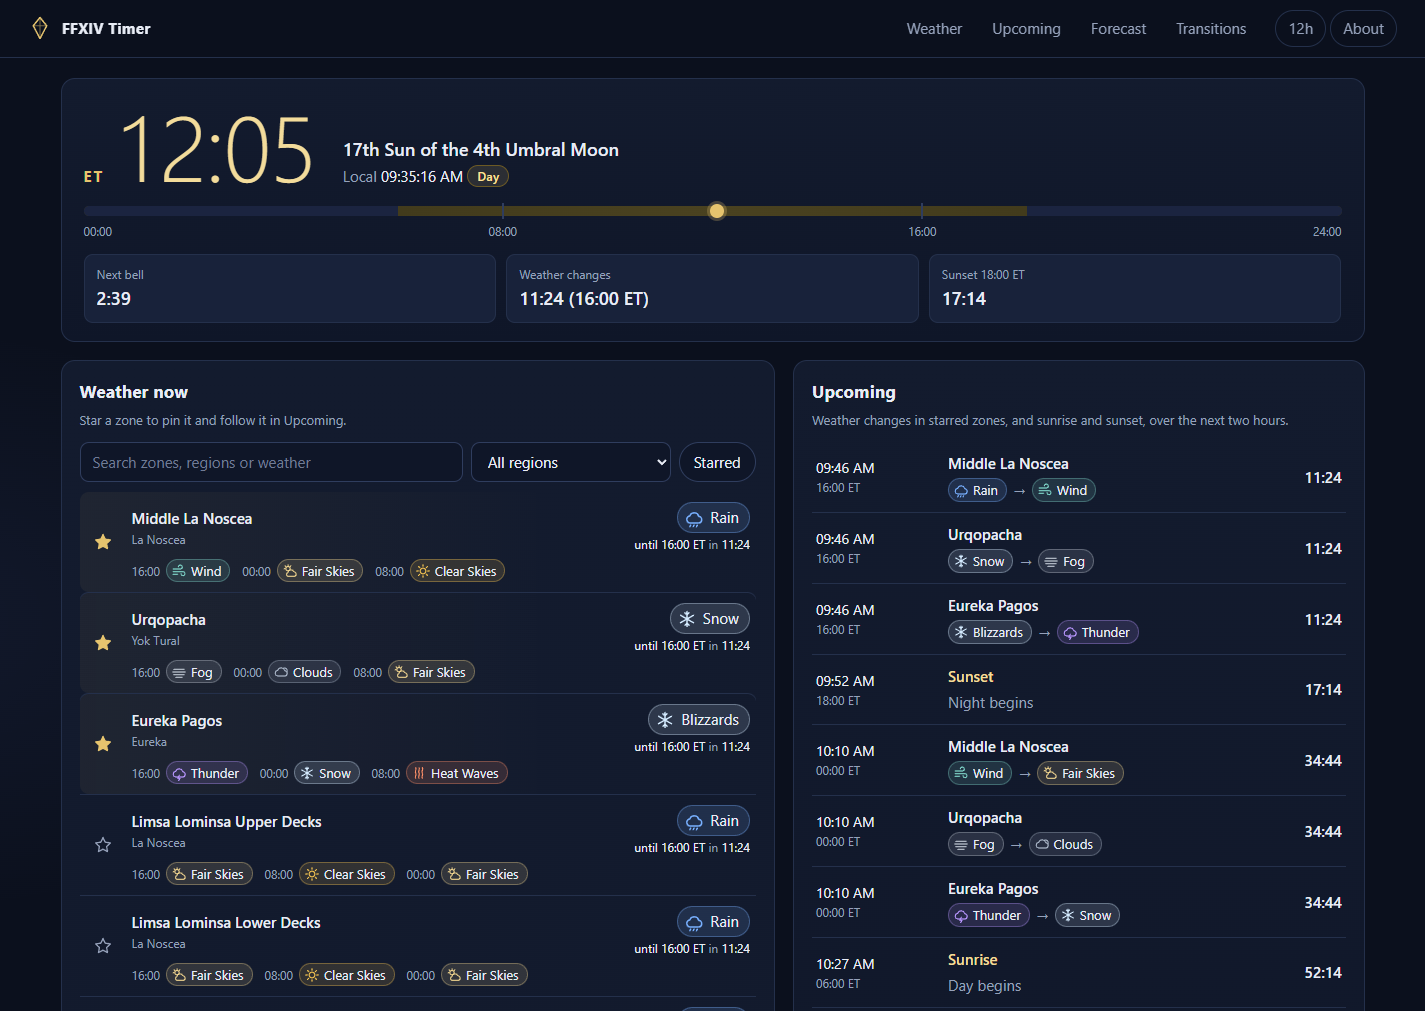
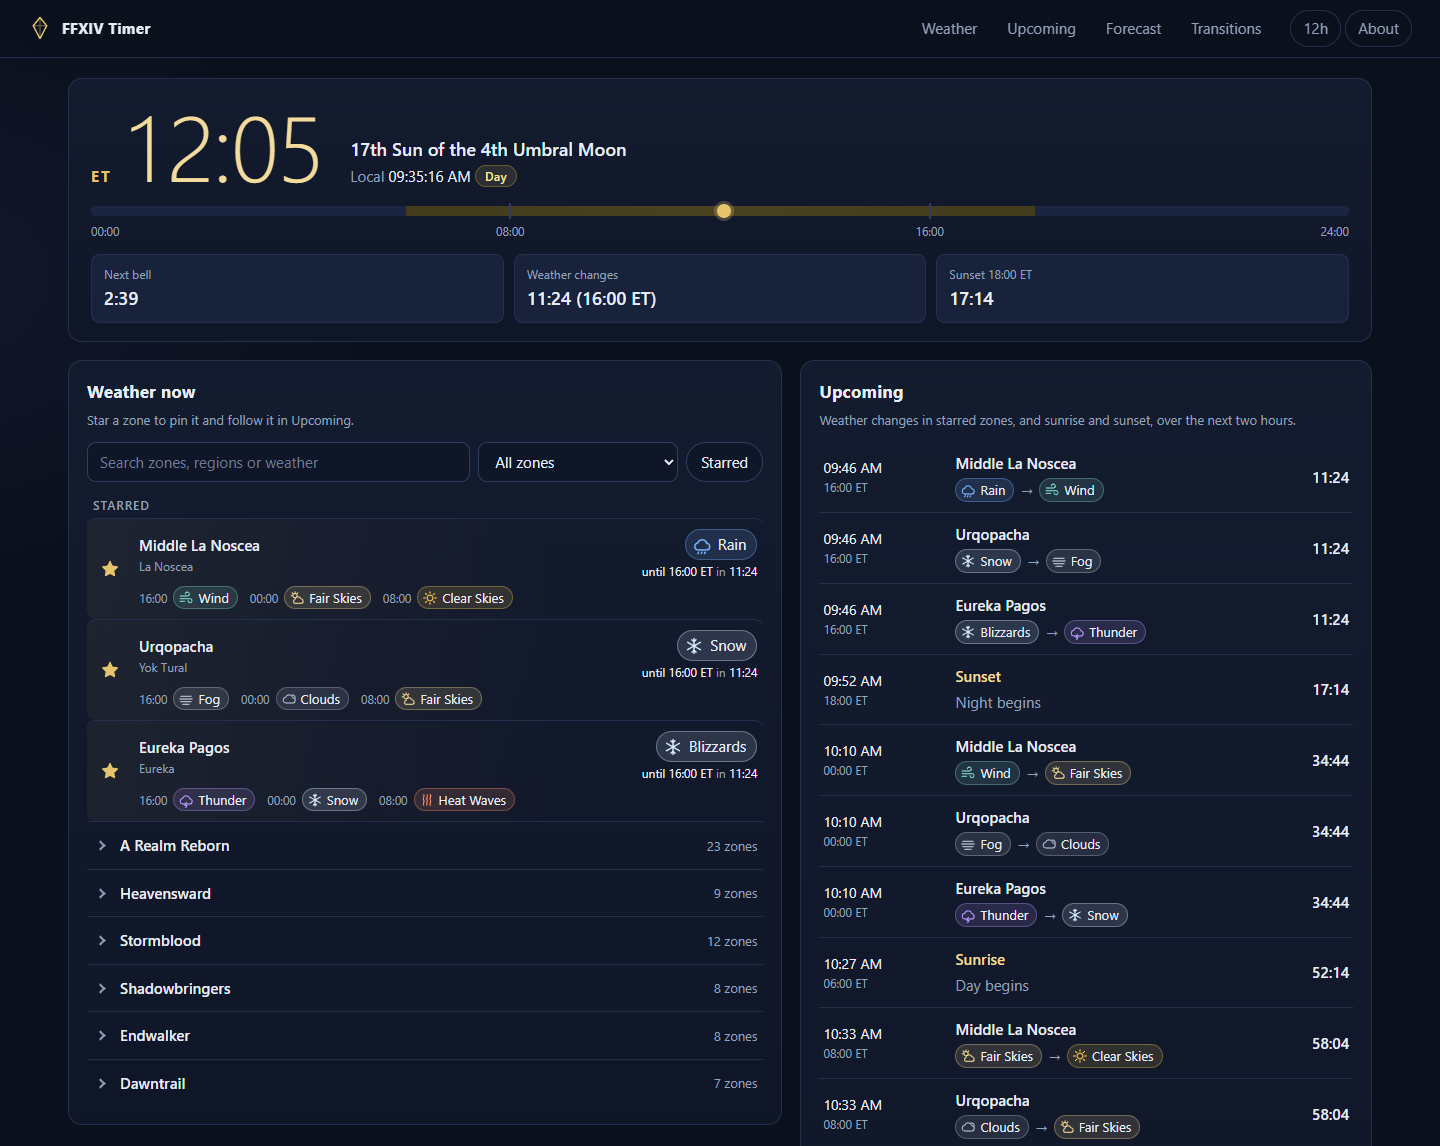
Weather for Stormblood through Endwalker; group zones by expansion
- 25 more zones (70 in all): every city and field zone from A Realm Reborn through Dawntrail,
  plus Eureka. Every table matches XIVAPI; the reference implementation agrees on every zone it
  knows (one weather has since been renamed in the game text).
- Weather now: starred zones first, the rest in one collapsible group per expansion that stays
  open or closed. The area filter, zone pickers and About list are grouped by expansion, in the
  game's own release order.
- About notes that story versions of a zone can have their own weather.
- A unit test that every page script parses; a browser test for the groups and area filter.
- Screenshot retaken at full width.

diff --git a/js/weather-data.js b/js/weather-data.js
@@ -6,7 +6,8 @@
   'use strict';
   const data = {
     source: {"dataset":"xivapi/ffxiv-datamining","commit":"44948e4cda5846eab0baa9872122a888fcc4f1b1","patch":"7.57h1","language":"en"},
-    weathers: {"1":"Clear Skies","2":"Fair Skies","3":"Clouds","4":"Fog","5":"Wind","6":"Gales","7":"Rain","8":"Showers","9":"Thunder","10":"Thunderstorms","11":"Dust Storms","14":"Heat Waves","15":"Snow","16":"Blizzards","17":"Gloom","49":"Umbral Wind","50":"Umbral Static"},
+    expansions: ["A Realm Reborn","Heavensward","Stormblood","Shadowbringers","Endwalker","Dawntrail"],
+    weathers: {"1":"Clear Skies","2":"Fair Skies","3":"Clouds","4":"Fog","5":"Wind","6":"Gales","7":"Rain","8":"Showers","9":"Thunder","10":"Thunderstorms","11":"Dust Storms","14":"Heat Waves","15":"Snow","16":"Blizzards","17":"Gloom","49":"Umbral Wind","50":"Umbral Static","148":"Moon Dust","149":"Astromagnetic Storms"},
     zones: [
       {"key":"limsa-lominsa-upper-decks","name":"Limsa Lominsa Upper Decks","territory":128,"region":"La Noscea","expansion":"A Realm Reborn","weatherRate":14,"rates":[[3,20],[1,30],[2,30],[4,10],[7,10]]},
       {"key":"limsa-lominsa-lower-decks","name":"Limsa Lominsa Lower Decks","territory":129,"region":"La Noscea","expansion":"A Realm Reborn","weatherRate":15,"rates":[[3,20],[1,30],[2,30],[4,10],[7,10]]},
@@ -41,6 +42,31 @@
       {"key":"foundation","name":"Foundation","territory":418,"region":"Coerthas","expansion":"Heavensward","weatherRate":47,"rates":[[15,60],[2,10],[1,5],[3,15],[4,10]]},
       {"key":"the-pillars","name":"The Pillars","territory":419,"region":"Coerthas","expansion":"Heavensward","weatherRate":48,"rates":[[15,60],[2,10],[1,5],[3,15],[4,10]]},
       {"key":"idyllshire","name":"Idyllshire","territory":478,"region":"Dravania","expansion":"Heavensward","weatherRate":55,"rates":[[3,10],[4,10],[7,10],[8,10],[1,30],[2,30]]},
+      {"key":"kugane","name":"Kugane","territory":628,"region":"Hingashi","expansion":"Stormblood","weatherRate":82,"rates":[[7,10],[4,10],[3,20],[2,40],[1,20]]},
+      {"key":"rhalgrs-reach","name":"Rhalgr's Reach","territory":635,"region":"Gyr Abania","expansion":"Stormblood","weatherRate":78,"rates":[[1,15],[2,45],[3,20],[4,10],[9,10]]},
+      {"key":"the-doman-enclave","name":"The Doman Enclave","territory":759,"region":"Othard","expansion":"Stormblood","weatherRate":84,"rates":[[8,5],[7,10],[4,10],[3,15],[2,40],[1,20]]},
+      {"key":"the-fringes","name":"The Fringes","territory":612,"region":"Gyr Abania","expansion":"Stormblood","weatherRate":79,"rates":[[1,15],[2,45],[3,20],[4,10],[9,10]]},
+      {"key":"the-peaks","name":"The Peaks","territory":620,"region":"Gyr Abania","expansion":"Stormblood","weatherRate":80,"rates":[[1,10],[2,50],[3,15],[4,10],[5,10],[11,5]]},
+      {"key":"the-lochs","name":"The Lochs","territory":621,"region":"Gyr Abania","expansion":"Stormblood","weatherRate":81,"rates":[[1,20],[2,40],[3,20],[4,10],[10,10]]},
+      {"key":"the-ruby-sea","name":"The Ruby Sea","territory":613,"region":"Othard","expansion":"Stormblood","weatherRate":83,"rates":[[9,10],[5,10],[3,15],[2,40],[1,25]]},
+      {"key":"yanxia","name":"Yanxia","territory":614,"region":"Othard","expansion":"Stormblood","weatherRate":84,"rates":[[8,5],[7,10],[4,10],[3,15],[2,40],[1,20]]},
+      {"key":"the-azim-steppe","name":"The Azim Steppe","territory":622,"region":"Othard","expansion":"Stormblood","weatherRate":85,"rates":[[6,5],[5,5],[7,7],[4,8],[3,10],[2,40],[1,25]]},
+      {"key":"the-crystarium","name":"The Crystarium","territory":819,"region":"Norvrandt","expansion":"Shadowbringers","weatherRate":112,"rates":[[1,20],[2,40],[3,15],[4,10],[7,10],[10,5]]},
+      {"key":"eulmore","name":"Eulmore","territory":820,"region":"Norvrandt","expansion":"Shadowbringers","weatherRate":113,"rates":[[6,10],[7,10],[4,10],[3,15],[2,40],[1,15]]},
+      {"key":"lakeland","name":"Lakeland","territory":813,"region":"Norvrandt","expansion":"Shadowbringers","weatherRate":106,"rates":[[1,20],[2,40],[3,15],[4,10],[7,10],[10,5]]},
+      {"key":"kholusia","name":"Kholusia","territory":814,"region":"Norvrandt","expansion":"Shadowbringers","weatherRate":107,"rates":[[6,10],[7,10],[4,10],[3,15],[2,40],[1,15]]},
+      {"key":"amh-araeng","name":"Amh Araeng","territory":815,"region":"Norvrandt","expansion":"Shadowbringers","weatherRate":108,"rates":[[2,45],[3,15],[11,10],[14,10],[1,20]]},
+      {"key":"il-mheg","name":"Il Mheg","territory":816,"region":"Norvrandt","expansion":"Shadowbringers","weatherRate":109,"rates":[[7,10],[4,10],[3,15],[10,10],[1,15],[2,40]]},
+      {"key":"the-raktika-greatwood","name":"The Rak'tika Greatwood","territory":817,"region":"Norvrandt","expansion":"Shadowbringers","weatherRate":110,"rates":[[4,10],[7,10],[49,10],[1,15],[2,40],[3,15]]},
+      {"key":"the-tempest","name":"The Tempest","territory":818,"region":"Norvrandt","expansion":"Shadowbringers","weatherRate":111,"rates":[[3,20],[2,60],[1,20]]},
+      {"key":"old-sharlayan","name":"Old Sharlayan","territory":962,"region":"The Northern Empty","expansion":"Endwalker","weatherRate":137,"rates":[[1,10],[2,40],[3,20],[4,15],[15,15]]},
+      {"key":"radz-at-han","name":"Radz-at-Han","territory":963,"region":"Ilsabard","expansion":"Endwalker","weatherRate":138,"rates":[[4,10],[7,15],[1,15],[2,40],[3,20]]},
+      {"key":"labyrinthos","name":"Labyrinthos","territory":956,"region":"The Northern Empty","expansion":"Endwalker","weatherRate":131,"rates":[[1,15],[2,45],[3,25],[7,15]]},
+      {"key":"thavnair","name":"Thavnair","territory":957,"region":"Ilsabard","expansion":"Endwalker","weatherRate":132,"rates":[[4,10],[7,10],[8,5],[1,15],[2,40],[3,20]]},
+      {"key":"garlemald","name":"Garlemald","territory":958,"region":"Ilsabard","expansion":"Endwalker","weatherRate":133,"rates":[[15,45],[9,5],[7,5],[4,5],[3,25],[2,10],[1,5]]},
+      {"key":"mare-lamentorum","name":"Mare Lamentorum","territory":959,"region":"The Sea of Stars","expansion":"Endwalker","weatherRate":135,"rates":[[49,15],[148,15],[2,70]]},
+      {"key":"ultima-thule","name":"Ultima Thule","territory":960,"region":"The Sea of Stars","expansion":"Endwalker","weatherRate":136,"rates":[[149,15],[2,70],[49,15]]},
+      {"key":"elpis","name":"Elpis","territory":961,"region":"The World Unsundered","expansion":"Endwalker","weatherRate":134,"rates":[[3,25],[49,15],[2,45],[1,15]]},
       {"key":"tuliyollal","name":"Tuliyollal","territory":1185,"region":"Yok Tural","expansion":"Dawntrail","weatherRate":159,"rates":[[1,40],[2,40],[3,5],[4,10],[7,5]]},
       {"key":"solution-nine","name":"Solution Nine","territory":1186,"region":"Xak Tural","expansion":"Dawntrail","weatherRate":163,"rates":[[2,100]]},
       {"key":"urqopacha","name":"Urqopacha","territory":1187,"region":"Yok Tural","expansion":"Dawntrail","weatherRate":160,"rates":[[1,20],[2,30],[3,20],[4,10],[5,10],[15,10]]},
@@ -55,7 +81,7 @@
       {"key":"eureka-hydatos","name":"Eureka Hydatos","territory":827,"region":"Eureka","expansion":"Stormblood","weatherRate":100,"rates":[[2,12],[8,22],[17,22],[10,22],[15,22]]},
     ],
     // Places that have weather in the game but no forecast here yet.
-    unsupported: [{"key":"amh-araeng","name":"Amh Araeng"},{"key":"auxesia","name":"Auxesia"},{"key":"bozjan-southern-front","name":"Bozjan Southern Front"},{"key":"elpis","name":"Elpis"},{"key":"empyreum","name":"Empyreum"},{"key":"eulmore","name":"Eulmore"},{"key":"garlemald","name":"Garlemald"},{"key":"il-mheg","name":"Il Mheg"},{"key":"kholusia","name":"Kholusia"},{"key":"kugane","name":"Kugane"},{"key":"labyrinthos","name":"Labyrinthos"},{"key":"lakeland","name":"Lakeland"},{"key":"mare-lamentorum","name":"Mare Lamentorum"},{"key":"mist","name":"Mist"},{"key":"north-horn","name":"North Horn"},{"key":"oizys","name":"Oizys"},{"key":"old-sharlayan","name":"Old Sharlayan"},{"key":"phaenna","name":"Phaenna"},{"key":"radz-at-han","name":"Radz-at-Han"},{"key":"rhalgrs-reach","name":"Rhalgr's Reach"},{"key":"shirogane","name":"Shirogane"},{"key":"sinus-ardorum","name":"Sinus Ardorum"},{"key":"south-horn","name":"South Horn"},{"key":"thavnair","name":"Thavnair"},{"key":"the-azim-steppe","name":"The Azim Steppe"},{"key":"the-crystarium","name":"The Crystarium"},{"key":"the-doman-enclave","name":"The Doman Enclave"},{"key":"the-fringes","name":"The Fringes"},{"key":"the-goblet","name":"The Goblet"},{"key":"the-lavender-beds","name":"The Lavender Beds"},{"key":"the-lochs","name":"The Lochs"},{"key":"the-peaks","name":"The Peaks"},{"key":"the-raktika-greatwood","name":"The Rak'tika Greatwood"},{"key":"the-ruby-sea","name":"The Ruby Sea"},{"key":"the-tempest","name":"The Tempest"},{"key":"ultima-thule","name":"Ultima Thule"},{"key":"unnamed-island","name":"Unnamed Island"},{"key":"yanxia","name":"Yanxia"},{"key":"zadnor","name":"Zadnor"}],
+    unsupported: [{"key":"auxesia","name":"Auxesia"},{"key":"bozjan-southern-front","name":"Bozjan Southern Front"},{"key":"empyreum","name":"Empyreum"},{"key":"mist","name":"Mist"},{"key":"north-horn","name":"North Horn"},{"key":"oizys","name":"Oizys"},{"key":"phaenna","name":"Phaenna"},{"key":"shirogane","name":"Shirogane"},{"key":"sinus-ardorum","name":"Sinus Ardorum"},{"key":"south-horn","name":"South Horn"},{"key":"the-goblet","name":"The Goblet"},{"key":"the-lavender-beds","name":"The Lavender Beds"},{"key":"unnamed-island","name":"Unnamed Island"},{"key":"zadnor","name":"Zadnor"}],
   };
   if (typeof module === 'object' && module.exports) module.exports = data;
   else root.FFXIV_WEATHER_DATA = data;

diff --git a/js/app.js b/js/app.js
@@ -10,7 +10,8 @@
   const ZONES = DATA.zones;
   const BY_KEY = new Map(ZONES.map((z) => [z.key, z]));
   const UNSUPPORTED = new Map(DATA.unsupported.map((z) => [z.key, z]));
-  const REGIONS = [...new Set(ZONES.map((z) => z.region))];
+  const EXPANSIONS = DATA.expansions.filter((x) => ZONES.some((z) => z.expansion === x));
+  const regionsOf = (x) => [...new Set(ZONES.filter((z) => z.expansion === x).map((z) => z.region))];
   const slug = Format.slug, fmtCountdown = Format.countdown;
   const WEATHER_BY_SLUG = new Map(Object.entries(DATA.weathers).map(([id, name]) => [slug(name), Number(id)]));
   const wxName = (id) => DATA.weathers[id];
@@ -24,7 +25,8 @@
   const state = {
     favorites: new Set((Store.read('favorites', DEFAULT_FAVORITES) || []).filter(knownZone)),
     hour12: Store.read('hour12', null),
-    search: '', region: '', favOnly: false,
+    search: '', area: '', favOnly: false,
+    openGroups: new Set((Store.read('openGroups', []) || []).filter((x) => EXPANSIONS.includes(x))),
     forecastZone: Store.read('forecastZone', 'middle-la-noscea'),
     forecastCount: 12,
     finder: Object.assign({ zone: 'eureka-pagos', prev: [], to: [15], bells: [] }, Store.read('finder', {})),
@@ -122,22 +124,40 @@
     if (`${z.name} ${z.region} ${z.expansion}`.toLowerCase().includes(q)) return true;
     return wxName(W.weatherAt(z, now)).toLowerCase().includes(q);
   }
+  // The area filter is "x:<expansion>" or "r:<region>".
+  const inArea = (z) => !state.area || (state.area.startsWith('x:') ? z.expansion === state.area.slice(2) : z.region === state.area.slice(2));
+  // Unfiltered, starred zones come first and every other zone sits in a collapsible group per
+  // expansion (open groups are remembered). Searching or filtering shows a flat list instead.
   function renderZones(now) {
     const list = $('zone-list'), q = state.search.trim().toLowerCase();
-    const shown = ZONES.filter((z) => (!state.region || z.region === state.region) && (!state.favOnly || state.favorites.has(z.key)) && zoneMatches(z, q, now));
-    shown.sort((a, b) => state.favorites.has(b.key) - state.favorites.has(a.key));
-    const rows = shown.map((z) => zoneRow(z, now));
-    const missing = q && !state.region && !state.favOnly
+    const filtering = Boolean(q || state.area || state.favOnly);
+    const shown = ZONES.filter((z) => inArea(z) && (!state.favOnly || state.favorites.has(z.key)) && zoneMatches(z, q, now));
+    const starred = shown.filter((z) => state.favorites.has(z.key)), rest = shown.filter((z) => !state.favorites.has(z.key));
+    const items = [];
+    if (filtering) {
+      items.push(...starred.concat(rest).map((z) => zoneRow(z, now)));
+    } else {
+      if (starred.length) items.push(el('li', { class: 'zone-heading' }, 'Starred'), ...starred.map((z) => zoneRow(z, now)));
+      for (const x of EXPANSIONS) {
+        const zones = rest.filter((z) => z.expansion === x);
+        if (!zones.length) continue;
+        items.push(el('li', { class: 'zone-group' },
+          el('details', { open: state.openGroups.has(x), 'data-group': x },
+            el('summary', null, el('span', null, x), el('span', { class: 'muted' }, `${zones.length} zone${zones.length === 1 ? '' : 's'}`)),
+            el('ul', { class: 'zone-list' }, zones.map((z) => zoneRow(z, now))))));
+      }
+    }
+    const missing = q && !state.area && !state.favOnly
       ? DATA.unsupported.filter((u) => u.name.toLowerCase().includes(q)) : [];
     for (const u of missing) {
-      rows.push(el('li', { class: 'zone-row unsupported' },
+      items.push(el('li', { class: 'zone-row unsupported' },
         el('span', { class: 'zone-title' }, u.name),
         el('span', { class: 'muted' }, 'No forecast yet: this zone has not been verified for FFXIV Timer.')));
     }
-    list.replaceChildren(...rows);
+    list.replaceChildren(...items);
     const empty = $('zone-empty');
-    empty.hidden = rows.length > 0;
-    if (!rows.length) empty.textContent = state.favOnly ? 'No starred zones match. Star a zone to pin it here.' : 'No zone matches that search.';
+    empty.hidden = items.length > 0;
+    if (!items.length) empty.textContent = state.favOnly ? 'No starred zones match. Star a zone to pin it here.' : 'No zone matches that search.';
   }
   function zoneRow(z, now) {
     const fav = state.favorites.has(z.key);
@@ -183,7 +203,7 @@
 
   // ---- forecast ----
   function zoneOptions(select, selected) {
-    const groups = REGIONS.map((r) => el('optgroup', { label: r }, ZONES.filter((z) => z.region === r).map((z) => el('option', { value: z.key }, z.name))));
+    const groups = EXPANSIONS.map((x) => el('optgroup', { label: x }, ZONES.filter((z) => z.expansion === x).map((z) => el('option', { value: z.key }, z.name))));
     select.replaceChildren(el('option', { value: '', disabled: true }, 'Choose a zone'), ...groups);
     select.value = BY_KEY.has(selected) ? selected : '';
   }
@@ -268,14 +288,15 @@
   // ---- about ----
   function renderAbout() {
     const src = DATA.source;
-    const zonesByRegion = REGIONS.map((r) => `${r}: ${ZONES.filter((z) => z.region === r).map((z) => z.name).join(', ')}`);
+    const zonesByExpansion = EXPANSIONS.map((x) => `${x}: ${ZONES.filter((z) => z.expansion === x).map((z) => z.name).join(', ')}`);
     $('about-body').replaceChildren(
       el('p', null, 'Eorzea Time, weather forecasts and weather transitions for FINAL FANTASY XIV. Free, no account, nothing to install, and nothing leaves your browser.'),
       el('h3', null, 'How the forecast works'),
       el('p', null, 'Weather in FFXIV is not random per player. Every eight bells (00:00, 08:00 and 16:00 ET, which is every 23 minutes 20 seconds) the game turns the current time into a number from 0 to 99 and looks it up in the zone\'s weather table. FFXIV Timer runs the same calculation on the same tables, so a forecast is the weather the game will choose, not an estimate.'),
       el('p', null, 'One bell (Eorzean hour) is 2 minutes 55 seconds and one sun (day) is 70 minutes. The game shows only the time; the date shown here counts suns and moons from the same starting point the weather uses.'),
+      el('p', null, "Story scenes and quest versions of a zone can have weather of their own (the game has Everlasting Light tables for the Shadowbringers story versions of Lakeland, Kholusia, Amh Araeng and Eulmore, for example). Forecasts here are each open zone's normal weather."),
       el('h3', null, `Zones with forecasts (${ZONES.length})`),
-      el('ul', { class: 'about-list' }, zonesByRegion.map((t) => el('li', null, t))),
+      el('ul', { class: 'about-list' }, zonesByExpansion.map((t) => el('li', null, t))),
       el('p', null, `${DATA.unsupported.length} other cities, field zones and areas have weather in the game but no forecast here yet. More are added only after their tables are verified.`),
       el('h3', null, 'Sources and checks'),
       el('p', null, `Weather tables come from the game data for patch ${src.patch}, as exported by the ${src.dataset} project (commit ${src.commit.slice(0, 10)}), and each one was checked against a second extraction from XIVAPI. The weather calculation was checked against two independent implementations over tens of thousands of times.`),
@@ -309,7 +330,9 @@
   function init() {
     readHash();
     const region = $('region-filter');
-    region.append(...REGIONS.map((r) => el('option', { value: r }, r)));
+    region.append(...EXPANSIONS.map((x) => el('optgroup', { label: x },
+      el('option', { value: `x:${x}` }, `All of ${x}`),
+      regionsOf(x).map((r) => el('option', { value: `r:${r}` }, r)))));
     zoneOptions($('forecast-zone'), state.forecastZone);
     zoneOptions($('finder-zone'), state.finder.zone);
     setText($('data-patch'), DATA.source.patch);
@@ -318,7 +341,14 @@
     writeHash();
 
     $('zone-search').addEventListener('input', (e) => { state.search = e.target.value; renderZones(Date.now()); updateCountdowns(Date.now()); });
-    region.addEventListener('change', (e) => { state.region = e.target.value; renderZones(Date.now()); updateCountdowns(Date.now()); });
+    region.addEventListener('change', (e) => { state.area = e.target.value; renderZones(Date.now()); updateCountdowns(Date.now()); });
+    // toggle does not bubble, so listen in the capture phase.
+    $('zone-list').addEventListener('toggle', (e) => {
+      const group = e.target.dataset && e.target.dataset.group;
+      if (!group) return;
+      if (e.target.open) state.openGroups.add(group); else state.openGroups.delete(group);
+      Store.write('openGroups', [...state.openGroups]);
+    }, true);
     $('fav-only').addEventListener('click', (e) => {
       state.favOnly = !state.favOnly;
       e.currentTarget.setAttribute('aria-pressed', String(state.favOnly));

diff --git a/css/style.css b/css/style.css
@@ -190,6 +190,20 @@ input[type="search"]::placeholder { color: #6f7b94; }
 .zone-next li { display: inline-flex; align-items: center; gap: 6px; }
 .zone-next .at { color: var(--muted); font-size: 12px; }
 .zone-row.unsupported { grid-template-columns: 1fr; grid-template-areas: none; opacity: .85; }
+.zone-heading { color: var(--muted); font-size: 12px; font-weight: 600; letter-spacing: .08em; text-transform: uppercase; padding: 4px 6px 4px; }
+.zone-group { border-top: 1px solid var(--line); }
+.zone-group summary {
+  display: flex; align-items: center; gap: 10px; padding: 12px 6px; cursor: pointer; font-weight: 600; list-style: none; border-radius: var(--radius-sm);
+}
+.zone-group summary::-webkit-details-marker { display: none; }
+.zone-group summary::before {
+  content: ""; width: 7px; height: 7px; margin: 0 6px 0 4px; border-right: 2px solid var(--muted); border-bottom: 2px solid var(--muted);
+  transform: rotate(-45deg); transition: transform .15s;
+}
+.zone-group details[open] > summary::before { transform: rotate(45deg); }
+.zone-group summary .muted { font-weight: 400; font-size: 13px; margin-left: auto; }
+.zone-group summary:hover { background: var(--panel-2); }
+.zone-group .zone-list { padding-bottom: 6px; }
 .zone-row.unsupported .muted { font-size: 13px; }
 
 /* ---- timeline and results ---- */

diff --git a/index.html b/index.html
@@ -80,8 +80,8 @@
             <input id="zone-search" type="search" placeholder="Search zones, regions or weather" autocomplete="off">
           </label>
           <label class="select">
-            <span class="visually-hidden">Region</span>
-            <select id="region-filter"><option value="">All regions</option></select>
+            <span class="visually-hidden">Expansion or region</span>
+            <select id="region-filter"><option value="">All zones</option></select>
           </label>
           <button type="button" id="fav-only" class="toggle" aria-pressed="false">Starred</button>
         </div>

diff --git a/CHANGELOG.md b/CHANGELOG.md
@@ -6,6 +6,14 @@
   steps), Gridania (old and new), the five Thanalan and four Black Shroud field zones, Coerthas
   Central Highlands, Mor Dhona, Wolves' Den Pier, Ishgard (Foundation and The Pillars),
   Idyllshire and the six Heavensward field zones. 45 zones in all.
+- Weather forecasts for 25 more zones, Stormblood through Endwalker: Kugane, Rhalgr's Reach,
+  the Doman Enclave and the six Stormblood field zones; the Crystarium, Eulmore and the six
+  Norvrandt field zones; Old Sharlayan, Radz-at-Han and the six Endwalker field zones. 70 zones
+  in all: every city and field zone from A Realm Reborn through Dawntrail, plus Eureka.
+- Weather now keeps starred zones on top and groups the rest by expansion in sections that open
+  and close (and stay that way). The area filter, the zone pickers and the About list are grouped
+  by expansion too.
+- About explains that story versions of a zone can have their own weather.
 - README screenshot, taken by `node tools/screenshot.mjs` at a fixed moment.
 
 ## Milestone 1
